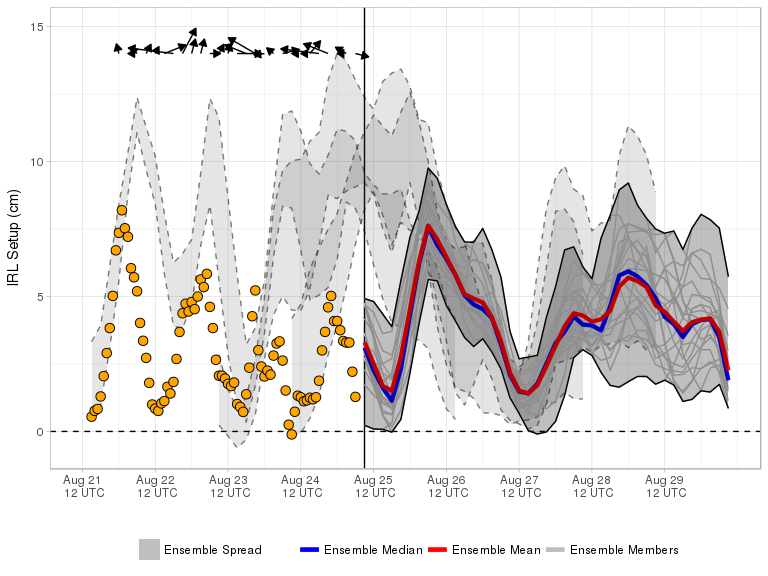
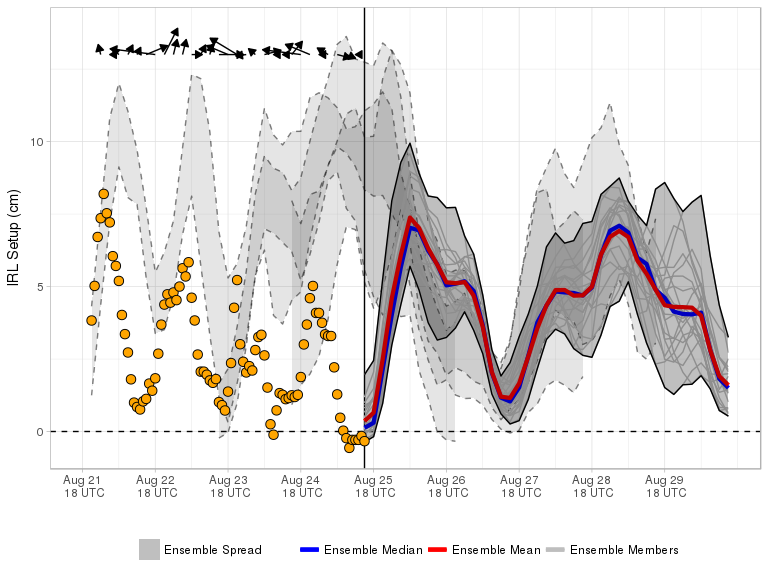
Forecast Update

Changed region(s): [[0.0938, 0.0312, 0.9688, 0.7812]]

diff --git a/docs/index.md b/docs/index.md
@@ -1,9 +1,9 @@
-Current Forecast 2018-08-25, Cycle 00 UTC
+Current Forecast 2018-08-25, Cycle 06 UTC
 -----------------------------------------
 
 [![](img/raw_setup.png)](https://fit-winds.github.io/IRLSetup/img/raw_setup.png)
 
-> Forecast valid 2018-08-25 02:33:25.
+> Forecast valid 2018-08-25 12:18:43.
 
 Explanation
 -----------
@@ -23,7 +23,7 @@ Ensemble Forecast System
 cycles. Calculation of the IRL setup is performed shortly after a new
 GEFS cycle is made available on the [data access
 link](http://www.ftp.ncep.noaa.gov/data/nccf/com/gens/prod/). The
-current cycle 2018-08-25 00 UTC 0.5° GEFS mean and median forecasts of
+current cycle 2018-08-25 06 UTC 0.5° GEFS mean and median forecasts of
 setup are represented by the red and blue curves, respectively. Ensemble
 spread from the current and three previous GEFS runs are shaded grey and
 bounded by solid and dashed curves, respectively.
